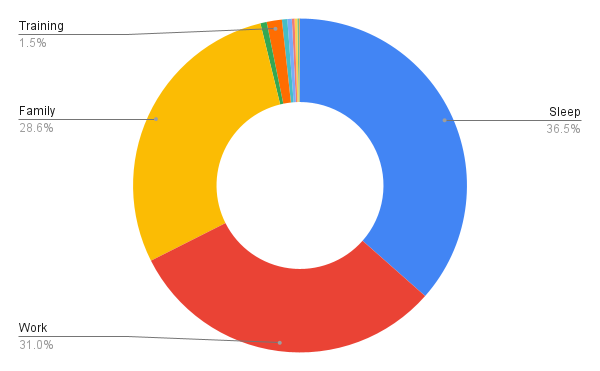
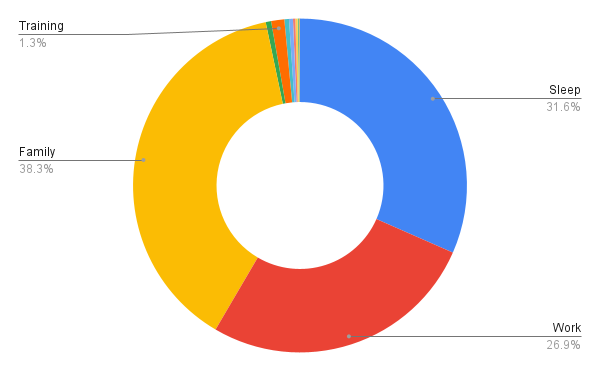
Updated chart and time analysis after calculation mistake

diff --git a/content/post/succeed_at_personal_priorities/index.md b/content/post/succeed_at_personal_priorities/index.md
@@ -104,9 +104,9 @@ Now my tracked data came in handy. Just going by how much time I allocate for ea
 
 ![](chart.png)
 
-1. Sleep - 7:01h
-2. Work - 5:58h (keep in mind that this includes Saturday and Sunday)
-3. Family - ~5:30h
+1. Family - ~8:30h
+2. Sleep - 7:01h
+3. Work - 5:58h (keep in mind that this includes Saturday and Sunday)
 4. Training - 17min
 5. Pen & Paper Games - 7min
 6. Podcasting - 6min
